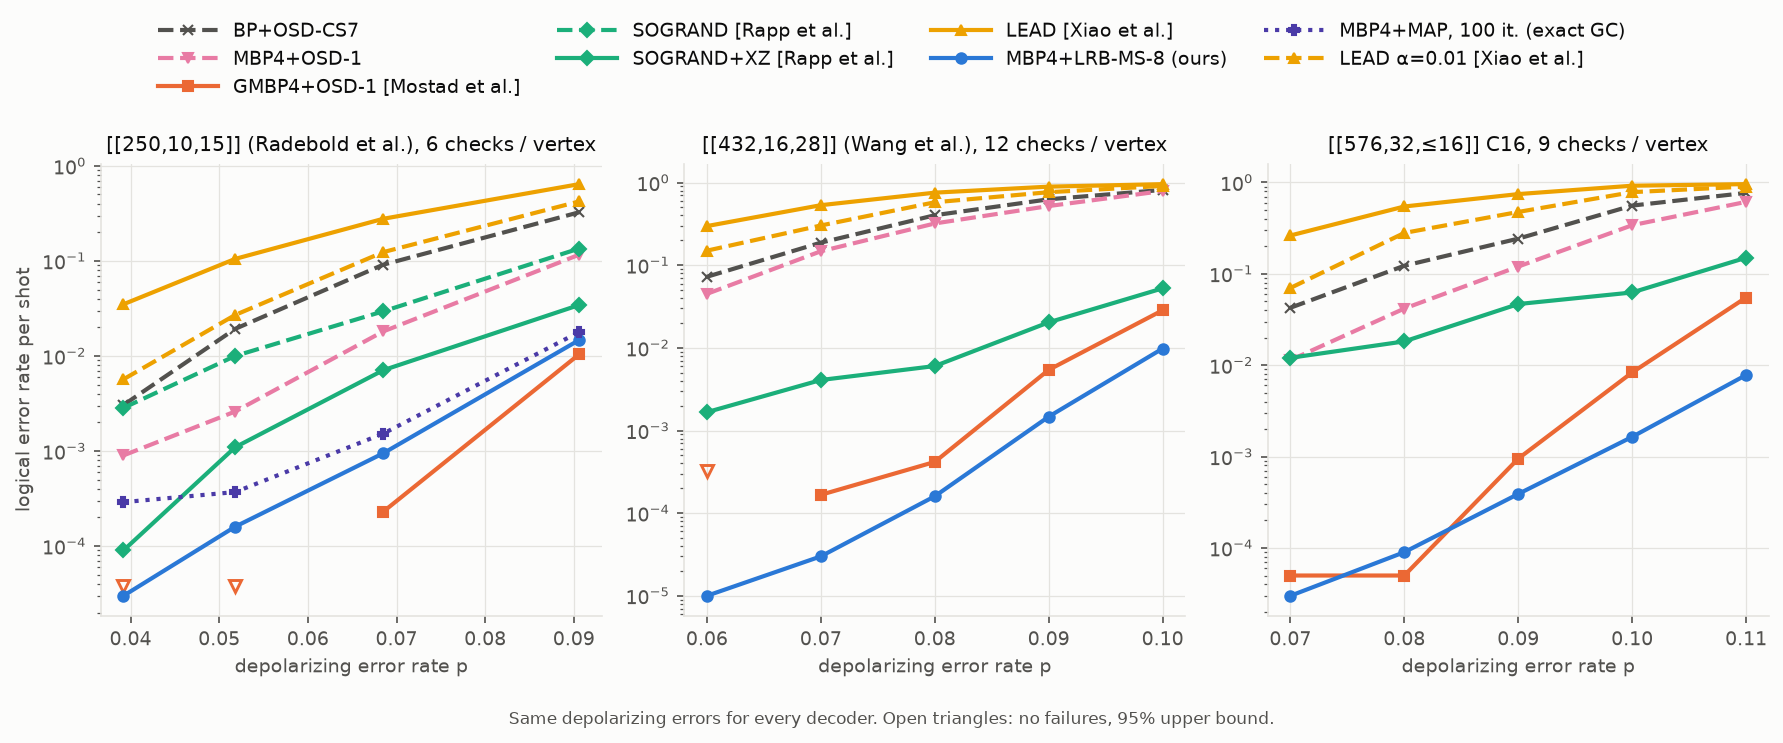
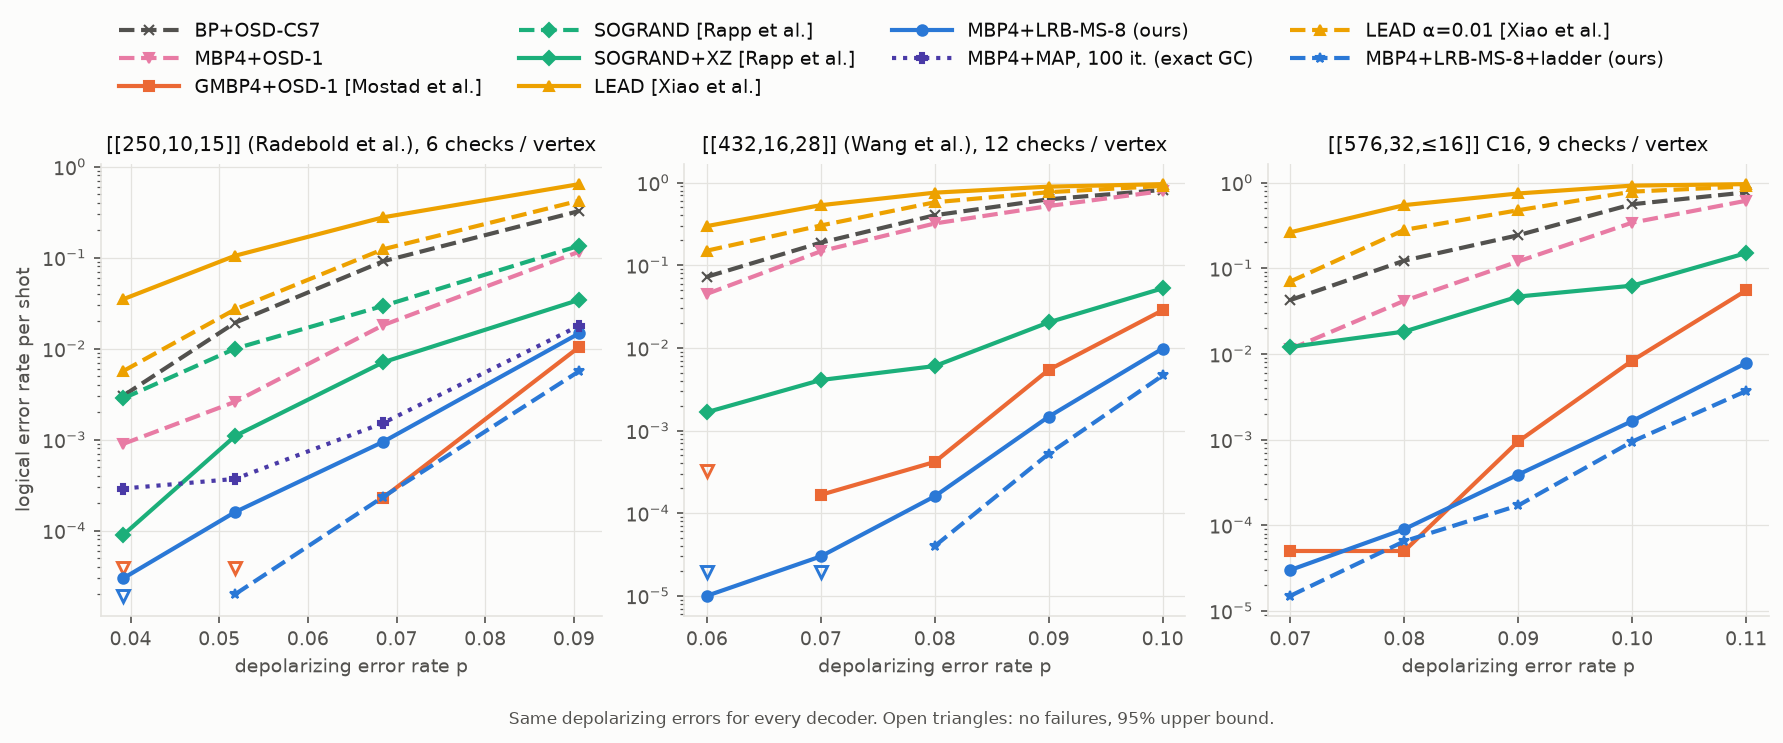
Compare MBP4+LRB-MS with a relay ladder against GMBP4+OSD-1
With post-processing on both sides (OSD-1 for GMBP4, a (mu, alpha) relay
ladder for LRB-MS, legs tuned on separate samples), MBP4+LRB-MS has 6-10x
fewer failures than GMBP4+OSD-1 on [[432,16]] at 37-65x less time, 5.6-15x
fewer on C16 at p >= 0.09 at 12-14x less time, and ties or beats it on
[[250,10,15]] at p >= 0.0685 at 2.5-4.7x less time.

Claude-Session: https://claude.ai/code/session_017Yn388yE6WA3fPSCLJt2pM

diff --git a/examples/related_work/plot_results.py b/examples/related_work/plot_results.py
@@ -21,6 +21,7 @@ SURFACE, INK, INK2, GRID = "#fcfcfb", "#0b0b0b", "#52514e", "#e4e3df"
 STYLES = {
     "MBP4+LRB-MS-8 (ours)": ("#2a78d6", "o", "-"),
     "MBP4+LRB-MS-6 (ours)": ("#2a78d6", "o", "-"),
+    "MBP4+LRB-MS-8+ladder (ours)": ("#2a78d6", "*", "--"),
     "GMBP4+OSD-1 [Mostad et al.]": ("#eb6834", "s", "-"),
     "SOGRAND+XZ [Rapp et al.]": ("#1baf7a", "D", "-"),
     "SOGRAND [Rapp et al.]": ("#1baf7a", "D", "--"),

diff --git a/docs/benchmarks/related_work.md b/docs/benchmarks/related_work.md
@@ -138,9 +138,48 @@ per vertex, at most 100 iterations and no OSD.
   than MBP4+OSD-1 at p = 0.05–0.06, at about half the time of MBP4+OSD-1 and GMBP4. Plain
   BP+OSD-CS7 is faster still, but 14–31× less accurate.
 
+### Post-processing: OSD-1 against a relay ladder
+
+GMBP4 rescues non-converged shots with OSD-1. The like-for-like counterpart for MBP4 + LRB-MS
+is a relay ladder: retry with new (μ, α) only when the previous attempt did not converge. The
+legs were chosen greedily on separate tuning samples (`tune_ladder.py`). Almost all base
+failures are non-convergence there: 0 of 83 on [[432,16]] were wrong convergences, 5 of 63 on
+C16 and 0 of 95 on [[250]].
+
+| code | ladder legs (μ, α) |
+|---|---|
+| [[432,16,28]] | (0.75, 1) → (0.7, 1) → (0.6, 1) → (0.7, 0.9) |
+| C16 [[576,32]] | (0.75, 1) → (0.85, 1) → (0.8, 1) → (0.7, 1) |
+| [[250,10,15]] | (0.95, 1) → (0.9, 0.9) → (0.95, 0.8) → (0.85, 0.9) |
+
+Same test samples as above (the ladder ran up to 200 000 shots):
+
+| code, p | GMBP4+OSD-1 [Mostad] | MBP4+LRB-MS | **MBP4+LRB-MS + ladder** | ladder vs GMBP4 |
+|---|---|---|---|---|
+| [[432,16]], 0.07 | 1.7e-4, 58 ms | 3.0e-5, 0.86 ms | **0 (/200 000), 0.92 ms** | ≥ 5× fewer failures, 63× faster |
+| [[432,16]], 0.08 | 4.2e-4, 71 ms | 1.6e-4, 1.07 ms | **4.0e-5, 1.08 ms** | 10×, 65× |
+| [[432,16]], 0.09 | 5.4e-3, 87 ms | 1.5e-3, 1.48 ms | **5.2e-4, 1.45 ms** | 10×, 60× |
+| [[432,16]], 0.10 | 2.9e-2, 102 ms | 9.8e-3, 2.17 ms | **4.6e-3, 2.79 ms** | 6×, 37× |
+| C16, 0.08 | 5e-5 (1 fail), 15 ms | 9.0e-5, 1.15 ms | 6.5e-5, 1.17 ms | tie, 13× |
+| C16, 0.09 | 9.5e-4, 20 ms | 3.9e-4, 1.36 ms | **1.7e-4, 1.41 ms** | 5.6×, 14× |
+| C16, 0.10 | 8.3e-3, 26 ms | 1.6e-3, 1.62 ms | **9.5e-4, 1.82 ms** | 8.8×, 14× |
+| C16, 0.11 | 5.5e-2, 35 ms | 7.8e-3, 2.31 ms | **3.7e-3, 3.03 ms** | 15×, 12× |
+| [[250,10,15]], 0.0518 | 0 (/100 000), 1.6 ms | 1.6e-4, 0.37 ms | 2.0e-5, 0.38 ms | GMBP4 better (≤ 3.7e-5), 4.2× |
+| [[250,10,15]], 0.0685 | 2.3e-4, 2.4 ms | 9.5e-4, 0.51 ms | 2.35e-4, 0.52 ms | tie, 4.7× |
+| [[250,10,15]], 0.0906 | 1.0e-2, 3.6 ms | 1.5e-2, 1.11 ms | **5.7e-3, 1.44 ms** | 1.8×, 2.5× |
+
+- **The ladder is nearly free.** It fires only on the shots that did not converge, so the mean
+  time rises by 0–31%. It cuts failures 1.4–8× relative to the single leg.
+- **With post-processing on both sides, MBP4 + LRB-MS is ahead on every code where the local
+  code has more than 6 checks.** On [[432,16]] it has 6–10× fewer failures than GMBP4+OSD-1
+  at 37–65× less time. On C16 it has 5.6–15× fewer failures above p = 0.08 at 12–14× less time.
+- **On the small-local-code [[250,10,15]], it now matches GMBP4** at p = 0.0685, is 1.8× better
+  at p = 0.0906 and is 2.5–4.7× faster. GMBP4 keeps a small edge at p ≤ 0.0518, where both
+  rarely fail.
+
 ### Caveats
 
-- LRB-MS's μ was tuned per code on separate samples. The other decoders use their papers'
+- LRB-MS's μ and ladder legs were tuned per code on separate samples. The other decoders use their papers'
   settings, which their authors tuned on their own codes; GMBP4's a = 1.6 was chosen on the
   [[432,16]] code itself.
 - Every decoder runs single-threaded. SOGRAND's queries and the MAP trellis both parallelise
@@ -163,6 +202,7 @@ per vertex, at most 100 iterations and no OSD.
 | MBP4+LRB-MS-8 (ours) | 3.0e-05 | 1.6e-04 | 9.5e-04 | 1.5e-02 |
 | MBP4+MAP, 100 it. (exact GC) | 2.9e-04 | 3.7e-04 | 1.5e-03 | 1.8e-02 |
 | LEAD α=0.01 [Xiao et al.] | 5.7e-03 | 2.7e-02 | 1.2e-01 | 4.2e-01 |
+| MBP4+LRB-MS-8+ladder (ours) | 0 (/200000) | 2.0e-05 | 2.3e-04 | 5.7e-03 |
 
 **[[250,10,15]]**, mean decode time per shot
 
@@ -177,6 +217,7 @@ per vertex, at most 100 iterations and no OSD.
 | MBP4+LRB-MS-8 (ours) | 0.32 ms | 0.37 ms | 0.51 ms | 1.11 ms |
 | MBP4+MAP, 100 it. (exact GC) | 0.68 ms | 0.78 ms | 1.11 ms | 2.01 ms |
 | LEAD α=0.01 [Xiao et al.] | 1.52 ms | 1.96 ms | 2.82 ms | 4.58 ms |
+| MBP4+LRB-MS-8+ladder (ours) | 0.33 ms | 0.38 ms | 0.52 ms | 1.44 ms |
 
 **[[432,16,28]]**, logical error rate
 
@@ -189,6 +230,7 @@ per vertex, at most 100 iterations and no OSD.
 | LEAD [Xiao et al.] | 3.0e-01 | 5.3e-01 | 7.6e-01 | 8.9e-01 | 9.6e-01 |
 | LEAD α=0.01 [Xiao et al.] | 1.5e-01 | 3.0e-01 | 5.8e-01 | 7.7e-01 | 9.1e-01 |
 | MBP4+LRB-MS-8 (ours) | 1.0e-05 | 3.0e-05 | 1.6e-04 | 1.5e-03 | 9.8e-03 |
+| MBP4+LRB-MS-8+ladder (ours) | 0 (/200000) | 0 (/200000) | 4.0e-05 | 5.2e-04 | 4.6e-03 |
 
 **[[432,16,28]]**, mean decode time per shot
 
@@ -201,6 +243,7 @@ per vertex, at most 100 iterations and no OSD.
 | LEAD [Xiao et al.] | 21.78 ms | 32.96 ms | 47.19 ms | 56.53 ms | 57.34 ms |
 | LEAD α=0.01 [Xiao et al.] | 11.33 ms | 21.84 ms | 32.08 ms | 46.74 ms | 56.53 ms |
 | MBP4+LRB-MS-8 (ours) | 0.73 ms | 0.86 ms | 1.07 ms | 1.48 ms | 2.17 ms |
+| MBP4+LRB-MS-8+ladder (ours) | 0.76 ms | 0.92 ms | 1.08 ms | 1.45 ms | 2.79 ms |
 
 **[[576,32,≤16]] C16**, logical error rate
 
@@ -213,6 +256,7 @@ per vertex, at most 100 iterations and no OSD.
 | LEAD [Xiao et al.] | 2.6e-01 | 5.5e-01 | 7.4e-01 | 9.2e-01 | 9.6e-01 |
 | LEAD α=0.01 [Xiao et al.] | 7.0e-02 | 2.8e-01 | 4.7e-01 | 7.8e-01 | 9.0e-01 |
 | MBP4+LRB-MS-8 (ours) | 3.0e-05 | 9.0e-05 | 3.9e-04 | 1.6e-03 | 7.8e-03 |
+| MBP4+LRB-MS-8+ladder (ours) | 1.5e-05 | 6.5e-05 | 1.7e-04 | 9.5e-04 | 3.7e-03 |
 
 **[[576,32,≤16]] C16**, mean decode time per shot
 
@@ -225,6 +269,7 @@ per vertex, at most 100 iterations and no OSD.
 | LEAD [Xiao et al.] | 17.73 ms | 27.45 ms | 36.94 ms | 53.91 ms | 57.58 ms |
 | LEAD α=0.01 [Xiao et al.] | 8.62 ms | 18.01 ms | 26.10 ms | 43.16 ms | 54.74 ms |
 | MBP4+LRB-MS-8 (ours) | 1.00 ms | 1.15 ms | 1.36 ms | 1.62 ms | 2.31 ms |
+| MBP4+LRB-MS-8+ladder (ours) | 1.02 ms | 1.17 ms | 1.41 ms | 1.82 ms | 3.03 ms |
 
 **BB [[144,12,12]]**, logical error rate
 

diff --git a/examples/related_work/results_tables.md b/examples/related_work/results_tables.md
@@ -12,6 +12,7 @@
 | MBP4+LRB-MS-8 (ours) | 3.0e-05 | 1.6e-04 | 9.5e-04 | 1.5e-02 |
 | MBP4+MAP, 100 it. (exact GC) | 2.9e-04 | 3.7e-04 | 1.5e-03 | 1.8e-02 |
 | LEAD α=0.01 [Xiao et al.] | 5.7e-03 | 2.7e-02 | 1.2e-01 | 4.2e-01 |
+| MBP4+LRB-MS-8+ladder (ours) | 0 (/200000) | 2.0e-05 | 2.3e-04 | 5.7e-03 |
 
 **[[250,10,15]]**, mean decode time per shot
 
@@ -26,6 +27,7 @@
 | MBP4+LRB-MS-8 (ours) | 0.32 ms | 0.37 ms | 0.51 ms | 1.11 ms |
 | MBP4+MAP, 100 it. (exact GC) | 0.68 ms | 0.78 ms | 1.11 ms | 2.01 ms |
 | LEAD α=0.01 [Xiao et al.] | 1.52 ms | 1.96 ms | 2.82 ms | 4.58 ms |
+| MBP4+LRB-MS-8+ladder (ours) | 0.33 ms | 0.38 ms | 0.52 ms | 1.44 ms |
 
 **[[432,16,28]]**, logical error rate
 
@@ -38,6 +40,7 @@
 | LEAD [Xiao et al.] | 3.0e-01 | 5.3e-01 | 7.6e-01 | 8.9e-01 | 9.6e-01 |
 | LEAD α=0.01 [Xiao et al.] | 1.5e-01 | 3.0e-01 | 5.8e-01 | 7.7e-01 | 9.1e-01 |
 | MBP4+LRB-MS-8 (ours) | 1.0e-05 | 3.0e-05 | 1.6e-04 | 1.5e-03 | 9.8e-03 |
+| MBP4+LRB-MS-8+ladder (ours) | 0 (/200000) | 0 (/200000) | 4.0e-05 | 5.2e-04 | 4.6e-03 |
 
 **[[432,16,28]]**, mean decode time per shot
 
@@ -50,6 +53,7 @@
 | LEAD [Xiao et al.] | 21.78 ms | 32.96 ms | 47.19 ms | 56.53 ms | 57.34 ms |
 | LEAD α=0.01 [Xiao et al.] | 11.33 ms | 21.84 ms | 32.08 ms | 46.74 ms | 56.53 ms |
 | MBP4+LRB-MS-8 (ours) | 0.73 ms | 0.86 ms | 1.07 ms | 1.48 ms | 2.17 ms |
+| MBP4+LRB-MS-8+ladder (ours) | 0.76 ms | 0.92 ms | 1.08 ms | 1.45 ms | 2.79 ms |
 
 **[[576,32,≤16]] C16**, logical error rate
 
@@ -62,6 +66,7 @@
 | LEAD [Xiao et al.] | 2.6e-01 | 5.5e-01 | 7.4e-01 | 9.2e-01 | 9.6e-01 |
 | LEAD α=0.01 [Xiao et al.] | 7.0e-02 | 2.8e-01 | 4.7e-01 | 7.8e-01 | 9.0e-01 |
 | MBP4+LRB-MS-8 (ours) | 3.0e-05 | 9.0e-05 | 3.9e-04 | 1.6e-03 | 7.8e-03 |
+| MBP4+LRB-MS-8+ladder (ours) | 1.5e-05 | 6.5e-05 | 1.7e-04 | 9.5e-04 | 3.7e-03 |
 
 **[[576,32,≤16]] C16**, mean decode time per shot
 
@@ -74,6 +79,7 @@
 | LEAD [Xiao et al.] | 17.73 ms | 27.45 ms | 36.94 ms | 53.91 ms | 57.58 ms |
 | LEAD α=0.01 [Xiao et al.] | 8.62 ms | 18.01 ms | 26.10 ms | 43.16 ms | 54.74 ms |
 | MBP4+LRB-MS-8 (ours) | 1.00 ms | 1.15 ms | 1.36 ms | 1.62 ms | 2.31 ms |
+| MBP4+LRB-MS-8+ladder (ours) | 1.02 ms | 1.17 ms | 1.41 ms | 1.82 ms | 3.03 ms |
 
 **BB [[144,12,12]]**, logical error rate
 

diff --git a/README.md b/README.md
@@ -66,6 +66,10 @@ Logical error rate and mean decode time per shot, one core.
   2.6–6× fewer failures.
 - **Small local codes:** on [[250,10,15]] (64-state trellis), GMBP4 is the most accurate, at
   3–5× our time.
+- **Post-processing on both sides:** GMBP4 ends with OSD-1. Giving LRB-MS a (μ, α) relay ladder
+  instead costs 0–31% extra time. With it, LRB-MS has 6–10× fewer failures than GMBP4+OSD-1 on
+  [[432,16]] and 5.6–15× fewer on C16 (p ≥ 0.09), and ties or beats it on [[250,10,15]] at
+  p ≥ 0.0685 ([details](docs/benchmarks/related_work.md#post-processing-osd-1-against-a-relay-ladder)).
 
 ### BB codes: the grouping ensemble beats BP+OSD, and the gap grows with code size
 
